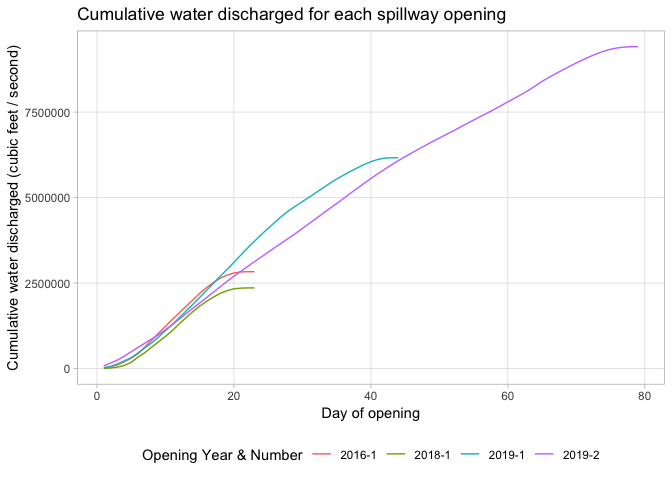
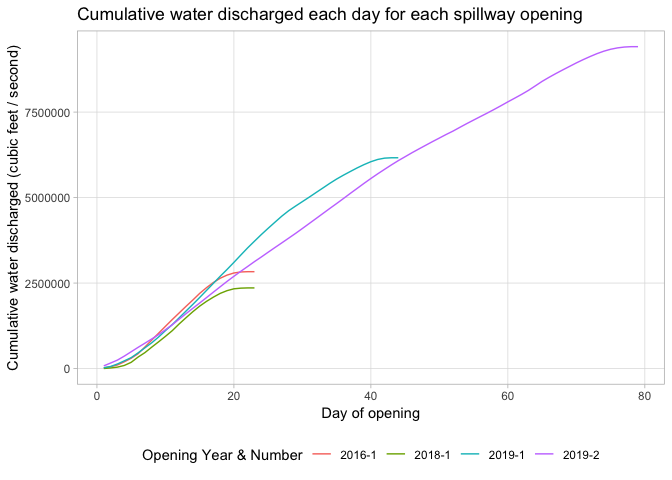
github document formatting fix

Changed region(s): [[0.4688, 0.0, 0.875, 0.0625]]

diff --git a/Openings-data-analysis.md b/Openings-data-analysis.md
@@ -1,5 +1,6 @@
-Data-analysis
+Openings-Data-Analysis
 ================
+Vikas Maturi
 
 # Libraries and Parameters
 
@@ -84,7 +85,7 @@ total_water_discharged %>%
   scale_y_continuous(labels = scales::comma, limits = c(0, 10000000))
 ```
 
-![](Openings-data-analysis_files/figure-gfm/unnamed-chunk-6-1.png)<!-- -->
+<img src="Openings-data-analysis_files/figure-gfm/unnamed-chunk-6-1.png" width="100%" />
 
 ``` r
 openings %>% 
@@ -103,7 +104,7 @@ openings %>%
   guides(color = guide_legend(title = "Opening Year & Number"))
 ```
 
-![](Openings-data-analysis_files/figure-gfm/unnamed-chunk-7-1.png)<!-- -->
+<img src="Openings-data-analysis_files/figure-gfm/unnamed-chunk-7-1.png" width="100%" />
 
 How has the progression of bay release patterns (number of individual
 bays opened) changed for successive openings? Hundreds of bays make up
@@ -126,7 +127,7 @@ openings %>%
   guides(color = guide_legend(title = "Opening Year & Number")) 
 ```
 
-![](Openings-data-analysis_files/figure-gfm/unnamed-chunk-8-1.png)<!-- -->
+<img src="Openings-data-analysis_files/figure-gfm/unnamed-chunk-8-1.png" width="100%" />
 
 ``` r
 openings %>% 
@@ -138,11 +139,11 @@ openings %>%
     legend.position = "bottom"
   ) +
   labs(
-    title = "Cumulative water discharged for each spillway opening",
+    title = "Cumulative water discharged each day for each spillway opening",
     x = "Day of opening",
     y = "Cumulative water discharged (cubic feet / second)"
   ) +
   guides(color = guide_legend(title = "Opening Year & Number")) 
 ```
 
-![](Openings-data-analysis_files/figure-gfm/unnamed-chunk-9-1.png)<!-- -->
+<img src="Openings-data-analysis_files/figure-gfm/unnamed-chunk-9-1.png" width="100%" />
